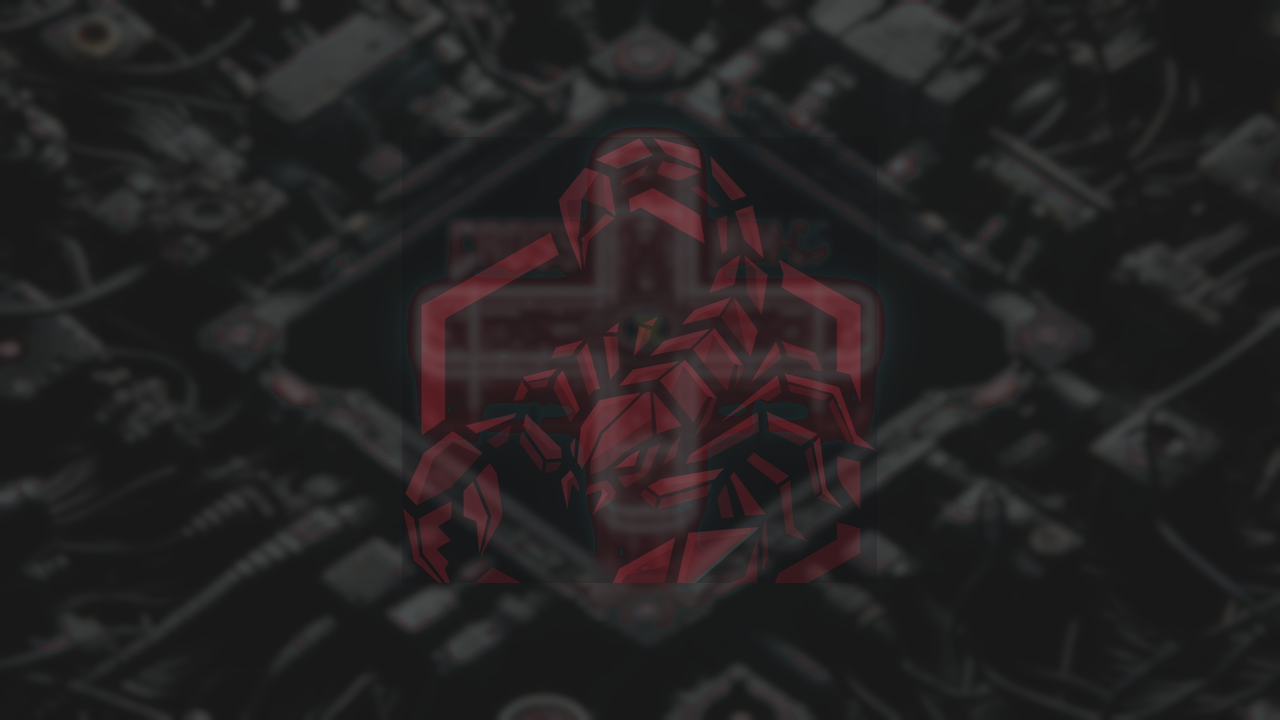
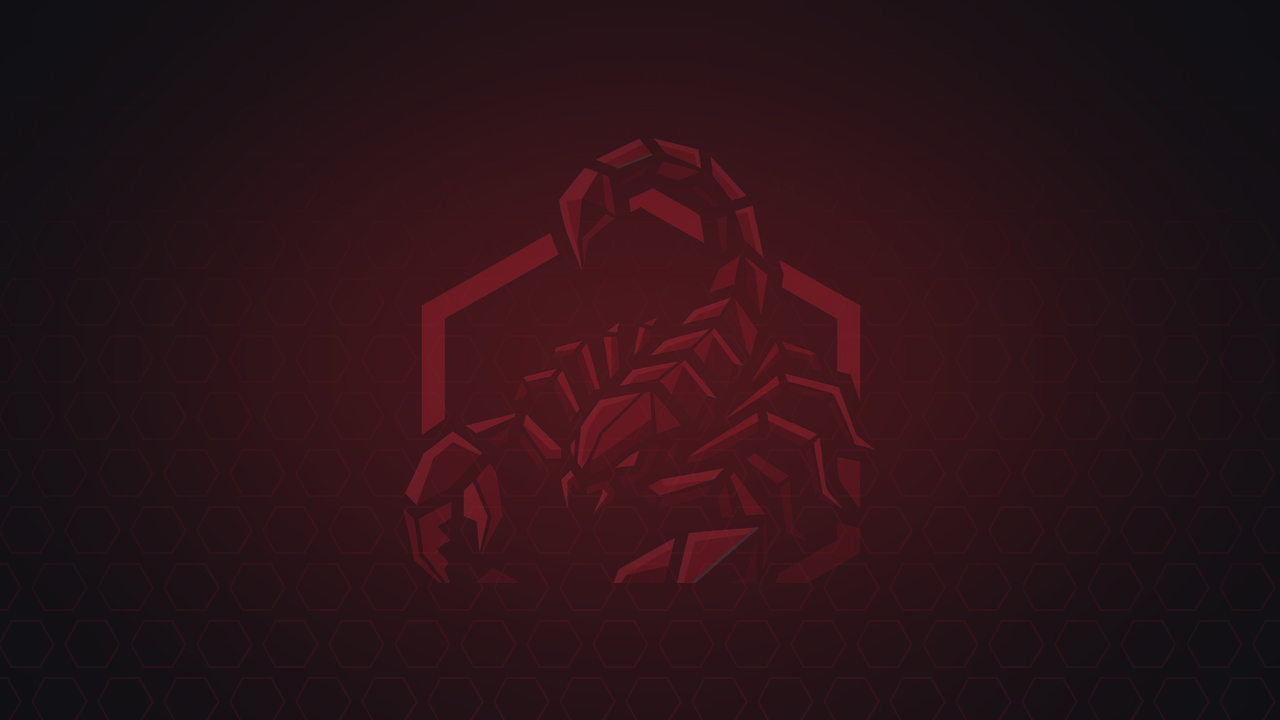
fix(#1): the SE theme background is built, not the stock one recoloured (#60)
The stock bg.png has its own emblem baked into the bitmap (a cross inside a
diamond, CROSSHAIR lettering). Recolouring it and watermarking the scorpion on
top put two marks in the same place, which looked exactly as bad as it sounds.

Now the plate is drawn from scratch: Scorpio Black, one red glow, a hexagonal
lattice that fades towards the top, vignette. Nothing of the old file survives.

Also fixes the watermark itself: logo-se.png is a flat #0F1014 square, so pasting
it left a visible lighter rectangle. Its alpha is rebuilt from the difference
against that colour, leaving only the mark.

diff --git a/_assets/scripts/make-theme-se.py b/_assets/scripts/make-theme-se.py
@@ -16,6 +16,7 @@ Run: python3 _assets/scripts/make-theme-se.py
 """
 
 import json
+import math
 import shutil
 from pathlib import Path
 
@@ -99,46 +100,80 @@ def build_nav_logo():
 
 
 def mark_layer(size, opacity):
-    """The SE mark, trimmed and scaled to sit as a watermark."""
+    """The SE mark as a transparent watermark.
+
+    The source is a flat #0F1014 square. Pasting it as-is leaves a visible
+    lighter rectangle floating over the background - which is exactly what the
+    first version looked like. The alpha is rebuilt from the difference against
+    that flat colour, so only the mark survives.
+    """
     art = Image.open(LOGO).convert("RGB")
-    # Upper part only: the scorpion inside its shield, without the wordmark.
     art = art.crop((0, 0, art.size[0], int(art.size[1] * 0.62)))
 
     flat = Image.new("RGB", art.size, art.getpixel((0, 0)))
-    diff = ImageChops.difference(art, flat).convert("L").point(lambda v: 255 if v > 8 else 0)
-    box = diff.getbbox()
+    diff = ImageChops.difference(art, flat).convert("L")
+
+    box = diff.point(lambda v: 255 if v > 8 else 0).getbbox()
     if box:
         art = art.crop(box)
+        diff = diff.crop(box)
+
+    art = art.convert("RGBA")
+    art.putalpha(diff.point(lambda v: min(255, int(v * 3.2))))
 
     h = int(size[1] * 0.62)
     art = art.resize((int(art.size[0] * h / art.size[1]), h), Image.Resampling.LANCZOS)
 
     layer = Image.new("RGBA", size, (0, 0, 0, 0))
-    layer.paste(art.convert("RGBA"), ((size[0] - art.size[0]) // 2,
-                                      (size[1] - art.size[1]) // 2))
-    alpha = layer.split()[3].point(lambda a: int(a * opacity))
-    layer.putalpha(alpha)
+    layer.paste(art, ((size[0] - art.size[0]) // 2, (size[1] - art.size[1]) // 2))
+    layer.putalpha(layer.split()[3].point(lambda a: int(a * opacity)))
     return layer
 
 
-def build_bg(mark_opacity=0.22):
-    bg = recolor(Image.open(BASE / "skin" / "bg.png").convert("RGB"))
+def build_bg(mark_opacity=0.26):
+    """A background built from scratch.
 
-    # push the neutrals darker and neutral: the stock file is a blue-grey map
-    arr = np.asarray(bg).astype(np.float32)
-    grey = arr.mean(axis=2, keepdims=True)
-    arr = np.clip(arr * 0.55 + grey * 0.45 * 0.85, 0, 255)
-    bg = Image.fromarray(arr.astype(np.uint8))
+    The stock bg.png carries its own emblem baked into the bitmap - a cross
+    inside a diamond, with the word CROSSHAIR. Recolouring it and dropping the
+    scorpion on top leaves two marks fighting in the same place, which is what it
+    looked like. Nothing of that file survives here: black plate, one red glow,
+    a hexagonal texture that is already part of the identity, and the mark.
+    """
+    size = (1280, 720)
+    img = Image.new("RGB", size, BLACK)
 
-    # vignette so the icon grid keeps the contrast it needs
-    vig = Image.new("L", bg.size, 0)
-    ImageDraw.Draw(vig).ellipse([-bg.size[0] * 0.25, -bg.size[1] * 0.3,
-                                 bg.size[0] * 1.25, bg.size[1] * 1.3], fill=255)
-    vig = vig.filter(ImageFilter.GaussianBlur(120))
-    bg = Image.composite(bg, Image.new("RGB", bg.size, BLACK), vig)
+    glow = Image.new("RGB", size, (0, 0, 0))
+    gd = ImageDraw.Draw(glow)
+    for r, a in ((560, 30), (380, 48), (230, 68)):
+        gd.ellipse([640 - r, 360 - r * 0.62, 640 + r, 360 + r * 0.62],
+                   fill=(a, int(a * 0.12), int(a * 0.14)))
+    img = ImageChops.add(img, glow.filter(ImageFilter.GaussianBlur(120)))
 
-    bg = Image.alpha_composite(bg.convert("RGBA"), mark_layer(bg.size, mark_opacity))
-    return bg.convert("RGB")
+    # hexagonal lattice, faded towards the top so the icon rows keep contrast
+    hexl = Image.new("RGBA", size, (0, 0, 0, 0))
+    hd = ImageDraw.Draw(hexl)
+    step, rad = 66, 27
+    for row, y in enumerate(range(-40, 780, 57)):
+        for x in range(-40, 1340, step):
+            ox = step // 2 if row % 2 else 0
+            pts = [(x + ox + rad * math.cos(math.radians(a)),
+                    y + rad * math.sin(math.radians(a))) for a in range(0, 360, 60)]
+            hd.line(pts + [pts[0]], fill=RED + (20,), width=2)
+
+    fade = np.linspace(0.0, 1.0, size[1]).reshape(-1, 1)
+    fade = np.repeat(fade, size[0], axis=1)
+    alpha = np.asarray(hexl.split()[3]).astype(np.float32) * fade
+    hexl.putalpha(Image.fromarray(alpha.astype(np.uint8)))
+    img = Image.alpha_composite(img.convert("RGBA"), hexl).convert("RGB")
+
+    vig = Image.new("L", size, 0)
+    ImageDraw.Draw(vig).ellipse([-size[0] * 0.25, -size[1] * 0.3,
+                                 size[0] * 1.25, size[1] * 1.3], fill=255)
+    vig = vig.filter(ImageFilter.GaussianBlur(130))
+    img = Image.composite(img, Image.new("RGB", size, BLACK), vig)
+
+    img = Image.alpha_composite(img.convert("RGBA"), mark_layer(size, mark_opacity))
+    return img.convert("RGB")
 
 
 def build_shutdown():

diff --git a/docs/BRANDING.md b/docs/BRANDING.md
@@ -269,7 +269,7 @@ What changed:
 
 | Asset | Change |
 |---|---|
-| `skin/bg.png` | teal shifted to Ember Red, neutrals pushed darker, SE mark watermarked at 22% |
+| `skin/bg.png` | rebuilt: black plate, one red glow, hexagonal lattice, SE mark as a transparent watermark. Nothing of the stock bitmap survives — it carried its own emblem and two marks in one place looked wrong |
 | `skin/shutdown.png` | teal shifted to red; the old wordmark in the corner replaced by a bordered `CROSSMIX-OS SE` badge |
 | `skin/nav-logo.png` | regenerated at 218x40 — `CROSSMIX-OS` in Bone Cream plus the diamond mark, instead of a recoloured 40px bitmap |
 | `skin/icon-back.png`, `skin/progress-dot1-4.png` | rebuilt from luminance in Ember Red |
@@ -289,6 +289,8 @@ Reaching it from the console takes two files besides the folder:
   `theme` and `bootlogo` from those variables — **not** from the theme's
   `config.json`, which is why no `bootlogo` key is written there.
 
-Regenerate with `python3 _assets/scripts/make-theme-se.py`. Recolouring by hue
-shift leaves a teal fringe on antialiased 40px assets; the small ones are rebuilt
-from luminance instead, which is what makes them clean.
+Regenerate with `python3 _assets/scripts/make-theme-se.py`. Two traps found the
+hard way: a hue shift leaves a teal fringe on antialiased 40px assets (they are
+rebuilt from luminance instead), and the SE mark is a flat `#0F1014` square that
+shows as a floating rectangle unless its alpha is rebuilt from the difference
+against that colour.
